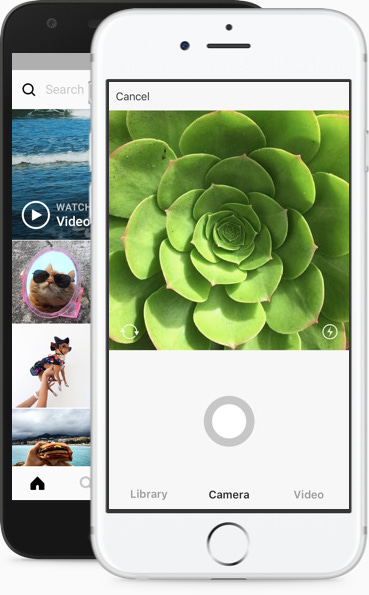
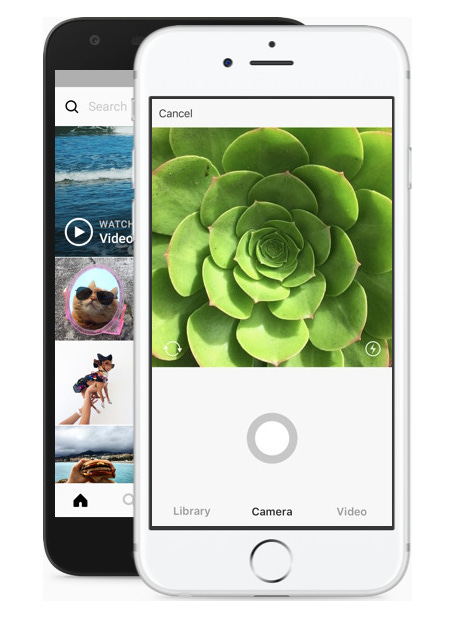
Added everything learnt from 22nd May(flex media query) site is no completly responsive

diff --git a/index.html b/index.html
@@ -10,7 +10,7 @@
     <!--Left and right divs-->
     <div class="content">
       <!--Left image-->
-      <img class="camera" src="images/camera.jpg" alt="camera picture" width="350px">
+      <img class="camera" src="images/camera.png" alt="camera picture" width="454px" height="645px">
 
       <!--Right side div-->
       <div class="signinwrapper">
@@ -48,8 +48,8 @@
     <!--Footer-->
     <footer>
       <!--div for centering-->
-      <div class="links">
-        <a href="https://www.instagram.com/about/us/">About Us</a>
+      <div class="links dlinks">
+        <a style="word-spacing: normal;" href="https://www.instagram.com/about/us/">About&nbsp;Us</a>
         <a href="https://help.instagram.com/">Support</a>
         <a href="https://www.tumblr.com/privacy/consent?redirect=https%3A%2F%2Finstagram.tumblr.com%2F">Blog</a>
         <a href="https://instagram-press.com/">Press</a>
@@ -59,6 +59,21 @@
         <a href="https://help.instagram.com/478745558852511">Terms</a>
         <a href="https://www.instagram.com/explore/locations/">Directory</a>
         <a href="https://www.instagram.com/directory/profiles/">Profiles</a>
+        <a href="https://www.instagram.com/directory/hashtags/">Hashtags</a>
+        <a href="">Language</a>
+        <sub>&copy;&nbsp;2018&nbsp;Instagram</sub>
+      </div>
+      <div class="links mlinks">
+        <a style="word-spacing: normal;" href="https://www.instagram.com/about/us/">About Us</a>
+        <a href="https://help.instagram.com/">Support</a>
+        <a href="https://www.tumblr.com/privacy/consent?redirect=https%3A%2F%2Finstagram.tumblr.com%2F">Blog</a>
+        <a href="https://instagram-press.com/">Press</a>
+        <a href="https://www.instagram.com/developer/">API</a>
+        <a href="https://www.instagram.com/about/jobs/">Jobs</a><br>
+        <a href="https://help.instagram.com/155833707900388">Privacy</a>
+        <a href="https://help.instagram.com/478745558852511">Terms</a>
+        <a href="https://www.instagram.com/explore/locations/">Directory</a>
+        <a href="https://www.instagram.com/directory/profiles/">Profiles</a><br>
         <a href="https://www.instagram.com/directory/hashtags/">Hashtags</a>
         <a href="">Language</a>
         <sub>&copy;&nbsp;2018&nbsp;Instagram</sub>

diff --git a/stylesheets/styles.css b/stylesheets/styles.css
@@ -6,8 +6,10 @@ body{
   padding-bottom: 3%;
 }
 .content{
-  width: 93%;
-  margin-left: 21%;
+  margin-top: 3%;
+  display: flex;
+  flex-wrap: nowrap;
+  justify-content: center;
 }
 a{
   text-decoration: none;
@@ -24,14 +26,11 @@ hr{
 /*Left image*/
 .camera{
   float: left;
-  margin-top: 8%;
-  margin-right: 2%;
 }
 
 /*Login/Signup right div*/
   /*First box*/
 .signinwrapper{
-  margin: 3.5% 0%;
   float: left;
   width: 365px;
 }
@@ -67,7 +66,7 @@ hr{
   border-radius: 3px;
 }
 .signupform input{
-  background-color: #fafafa;
+  background-color: #f6f7f9;
   border: .5px solid #e6e2e2;
   color: #999999;
   padding: 2%;
@@ -76,6 +75,11 @@ hr{
   width: 72%;
   weight: 100;
   line-height: 18px;
+  border-radius: 3px;
+}
+.signupform input:focus{
+  border: .5px solid #A19E9E;
+  outline: unset;
 }
 .signupform button{
   background-color: #fff;
@@ -127,6 +131,7 @@ footer{
   word-spacing: 20px;
   line-height: 30px;
   text-align: center;
+  margin-top: 4.5%
 }
 footer a{
   color: #083569;
@@ -143,11 +148,14 @@ footer sub{
 .links{
   float: none;
   clear: both;
-  margin: 0% 0%;
+  margin: 0 auto;
+}
+.mlinks{
+  display: none;
 }
 
 /*Resizing*/
-@media only screen and (max-width: 800px){
+@media only screen and (max-width: 840px){
   .content{
     width: 100%;
     margin-left: 0;
@@ -159,6 +167,18 @@ footer sub{
     float: none;
     margin: 0 auto;
   }
+  .dlinks{
+    display: none;
+  }
+  .mlinks{
+    display: inline;
+    width: 50%;
+  }
+  footer sub{
+    display: block;
+  }
+}
+@media only screen and (max-width: 450px){
   .instasignup{
     background-color: #f6f7f9;
     border: 0;
@@ -173,8 +193,5 @@ footer sub{
   .login{
     background-color: #f6f7f9;
     border: 0;
-  }
-  footer sub{
-    display: block;
   }
 }
